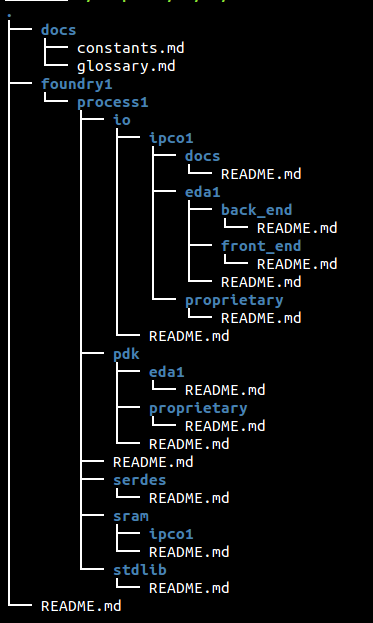
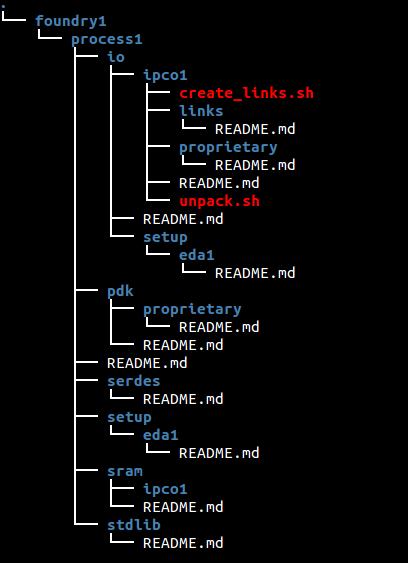
Adding synthesis wrapper files

Changed region(s): [[0.0, 0.0, 0.9142, 0.9964]]

diff --git a/chip/common/synthesis/README.md b/chip/common/synthesis/README.md
@@ -3,14 +3,14 @@ Vanilla chip synthesis flow
 
 The following TCL mush be defined before running the flow. Also, clearly the vendor specific files must be in place.
 
-## REQUIRED SHELL VARIABLES
+## Required Shell Variables
 
 | SHELL VARIABLE   | DESCRIPTION                         |
 |------------------|-------------------------------------|
 | $PROCESS_HOME    | Path to foundry process             |
 | $OH_HOME         | Path to OH repo home                |
 
-## REQUIRED TCL VARIABLES
+## Required TCL Variables
 
 | TCL VARIABLE     | DESCRIPTION                         |
 |------------------|-------------------------------------|
@@ -21,10 +21,14 @@ The following TCL mush be defined before running the flow. Also, clearly the ven
 | $OH_FLOORPLAN    | Floorplanning file (tcl)            |
 | $OH_CONSTRAINTS  | Timing constraints file             |
                 
-**Example: (my_vars.tcl)**
+## Example: (my_vars.tcl)**
 
 ```tcl
-set OH_DESIGN            "ecore"                      ; # top level module
+set OH_VENDOR     "synopsys"
+
+set OH_TOOl       "dc"
+
+set OH_DESIGN     "ecore"  
 
 set OH_FILES      "../../../hdl/$OH_DESIGN.v             \
                    -y $env(OH_HOME)/emesh/hdl            \
@@ -38,11 +42,11 @@ set OH_FILES      "../../../hdl/$OH_DESIGN.v             \
                    -y $env(EPIPHANY_HOME)/fpumm/hdl      \
                    +incdir+$env(EPIPHANY_HOME)/emesh/hdl \
                    +incdir+$env(EPIPHANY_HOME)/ecore/hdl \
-                   +incdir+$env(EPIPHANY_HOME)/edma/hdl"; # verilog libraries
+                   +incdir+$env(EPIPHANY_HOME)/edma/hdl"
 
-set OH_CONSTRAINTS       ${OH_DESIGN}.sdc           ; # constraints 
+set OH_CONSTRAINTS       ${OH_DESIGN}.sdc
 
-set OH_FLOORPLAN         ${OH_DESIGN}_floorplan.tcl ; # floorplan script
+set OH_FLOORPLAN         ${OH_DESIGN}_floorplan.tcl
 
 ```
 

diff --git a/chip/README.md b/chip/README.md
@@ -15,15 +15,18 @@ The structure is designed to simplify implementation scripts and maximize portab
 
 ## DIRECTORY STRUCTURE & NAMING METHODOLOGY
 
+| DIRECTORY NAME           | DESCRIPTION                                      |
+|--------------------------|--------------------------------------------------|
+| docs                     | Open source documents and design guidelines      |
+| common                   | Open source tcl script and software              |
+| foundry ("foundry1")     | tsmc, gf, tower, smic, umc, etc                  |
+| process ("process1")     | 28slp, 65g, etc                                  |
+| IP types("ip1")          | pdk, stdlib, io, sram, serdes, etc               |
+| IP company name ("ipco1")| arm, synopsys, cadence, tsmc, etc                |
+| eda company name ("eda1")| synopsys, cadence, mentor, etc                   |
+| proprietary              | content under NDA not for distribution           |
+ 
 ![alt tag](docs/directory_structure.png)
-
-* **docs**: Open source documents and design guidelines
-* **common**: Open source tcl script and software
-* **foundry name ("foundry1")**: tsmc, gf, tower, smic, umc, etc
-* **process name ("process1")**: 28slp, 65g, etc
-* **hard ip name**: pdk, stdlib, io, sram, serdes, etc
-* **IP company name ("ipco1")**: arm, synopsys, cadence, tsmc, etc
-* **eda name ("eda1")**: synopsys, cadence, mentor, etc
 
 Description of contents inside each folder can be found in the local README.md file.
 

diff --git a/chip/foundry/foundry1/process1/README.md b/chip/foundry/foundry1/process1/README.md
@@ -1,0 +1,4 @@
+## CONTENTS
+
+* "pdk": process specific technology files provided by foundry
+* Process node specific hard IP like standard logic libraries, general purpose IO, SERDS, memory macros

diff --git a/chip/foundry/foundry1/process1/io/ipco1/README.md b/chip/foundry/foundry1/process1/io/ipco1/README.md
@@ -1,0 +1,4 @@
+## CONTENTS
+- script for putting links to files in standard folders "standardizing"
+- script for unpacking files (solving a delivery mess)
+- directory "links" 

diff --git a/chip/foundry/foundry1/process1/io/setup/eda1/README.md b/chip/foundry/foundry1/process1/io/setup/eda1/README.md
@@ -1,0 +1,5 @@
+#FOLDER CONTENTS
+* Scripts needed to setup up IP in the various EDA tools to take design from design to Tcl files needed to set up the setup.tc
+
+
+  

diff --git a/chip/foundry/foundry1/process1/setup/eda1/README.md b/chip/foundry/foundry1/process1/setup/eda1/README.md
@@ -1,0 +1,3 @@
+## CONTENTS
+* Links to eda specific files from proprietary pdk directory
+* Technology setup scripts on a per tool basis (synthesis, P&R as examples)

diff --git a/chip/foundry/foundry1/process1/io/ipco1/links/README.md b/chip/foundry/foundry1/process1/io/ipco1/links/README.md
@@ -1,0 +1,2 @@
+## CONTENT
+* directories of symbolic links. Filled by the create_links.sh script

diff --git a/chip/foundry/foundry1/process1/io/README.md b/chip/foundry/foundry1/process1/io/README.md
@@ -1,0 +1,2 @@
+## CONTENTS
+* Various IP vendors. ipco1, ipco2, etc

diff --git a/chip/foundry/foundry1/process1/serdes/README.md b/chip/foundry/foundry1/process1/serdes/README.md
@@ -1,0 +1,2 @@
+## CONTENTS
+* Various IP vendors. ipco1, ipco2, etc

diff --git a/chip/foundry/foundry1/process1/sram/README.md b/chip/foundry/foundry1/process1/sram/README.md
@@ -1,0 +1,2 @@
+## CONTENTS
+* Various IP vendors. ipco1, ipco2, etc

diff --git a/chip/foundry/foundry1/process1/stdlib/README.md b/chip/foundry/foundry1/process1/stdlib/README.md
@@ -1,0 +1,2 @@
+## CONTENTS
+* Various IP vendors. ipco1, ipco2, etc

diff --git a/chip/foundry/foundry1/process1/pdk/README.md b/chip/foundry/foundry1/process1/pdk/README.md
@@ -1,0 +1,3 @@
+## CONTENTS
+
+* proprietary: files from vendor
